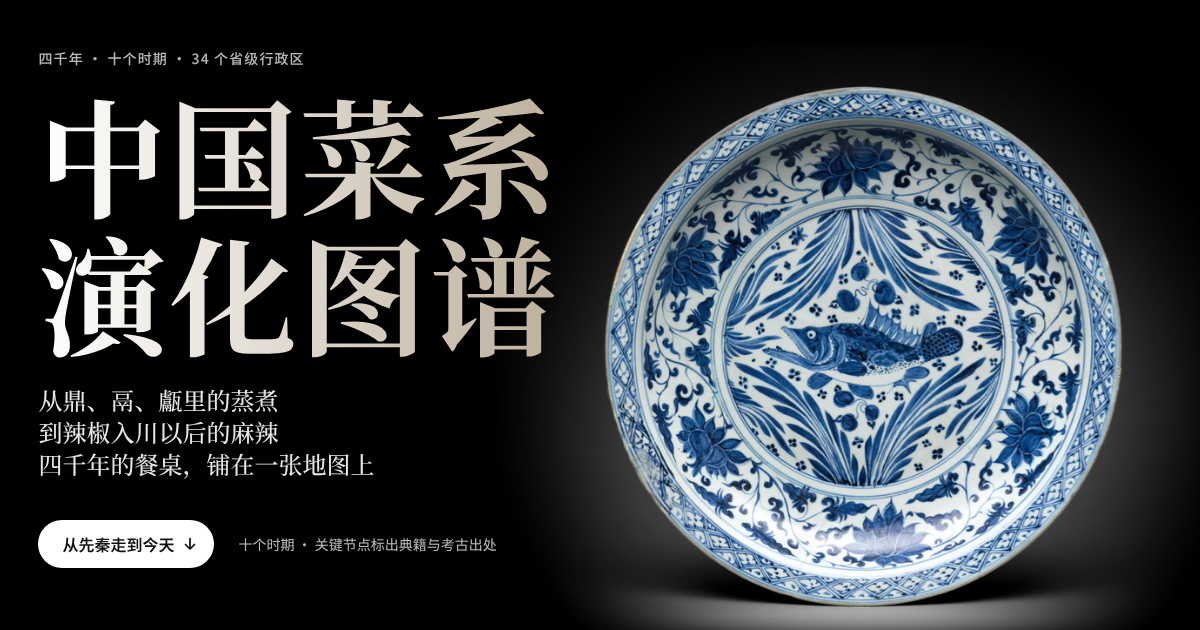
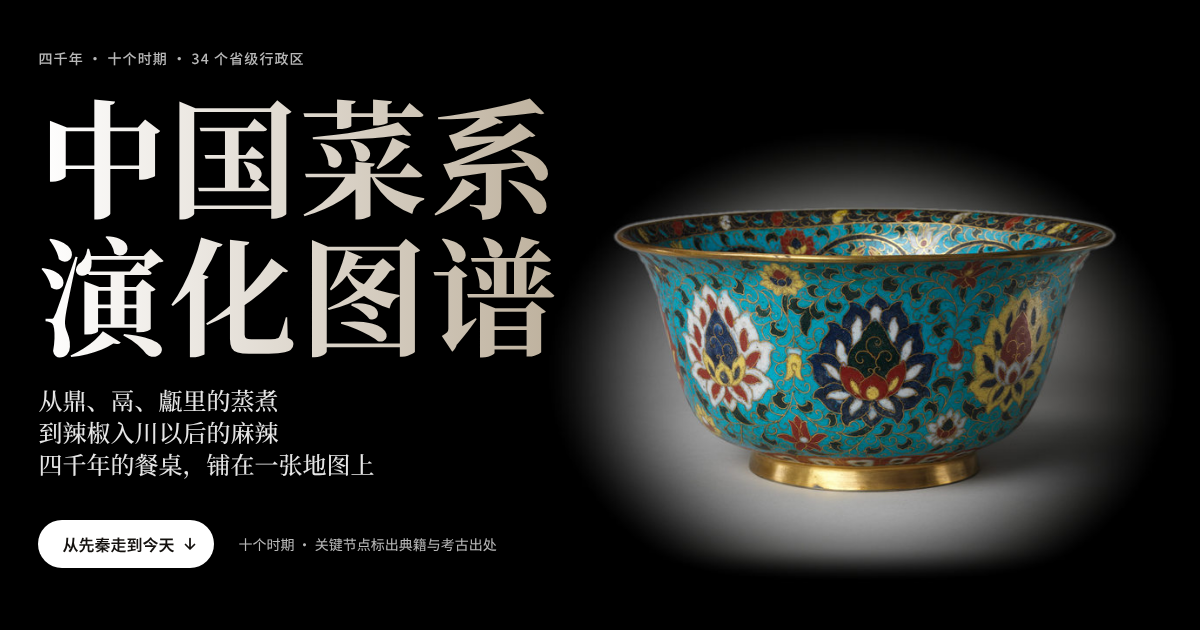
第 1 题 v2 首屏再换图：明代掐丝珐琅八吉祥纹大碗（大都会 29.110.88，公有领域）（预览，待「发」）
Claude-Session: https://claude.ai/code/session_01XSyXLS5qb3L6h9cqoC6WdC

diff --git a/themes/2026-09-21-cuisine-atlas/index.html b/themes/2026-09-21-cuisine-atlas/index.html
@@ -23,7 +23,7 @@
 <noscript><link rel="stylesheet" href="https://fonts.googleapis.com/css2?family=Noto+Serif+SC:wght@500;700;900&family=Noto+Sans+SC:wght@400;500;600;700&display=swap"></noscript>
 <style>
 /* 皮肤「宣纸与朱砂」v2（2026-10-30，按第 5–7 题 v2 的版面系统重排；9/27 天杰认可过这个方向）：
-   默认是纸——米色宣纸 #F4F0E6 为底，暖墨字，朱砂 #B5432C 是唯一强调色；卷首是纯黑的「灯下」带（展柜里的元青花大盘）。导航里可切「夜里读」。
+   默认是纸——米色宣纸 #F4F0E6 为底，暖墨字，朱砂 #B5432C 是唯一强调色；卷首是纯黑的「灯下」带（展柜里的掐丝珐琅大碗）。导航里可切「夜里读」。
    字号只取 12/14/16/18/20/24/30/36/48/60/96/128；间距只取 4/8/12/16/24/32/40/48/64/80/96；新写的部分字重 400–700；圆角 4/6/8/12/16/全圆。
    背景不用渐变（卷首标题字除外）。缓动统一 cubic-bezier(.22,1,.36,1)：位移 500 ms，颜色与透明度 300 ms，入场 700 ms。
    地图、时期面板、四维长卷与各地沿革在首屏阶段沿用 v1（atlas.css），只把令牌换成这一套。 */
@@ -69,7 +69,7 @@ a:focus-visible,button:focus-visible,[tabindex]:focus-visible{outline:2px solid 
 .fade{opacity:0;transform:translateY(32px);transition:opacity .7s var(--ease),transform .7s var(--ease)}
 .fade.in{opacity:1;transform:none}
 
-/* ---------- 卷首：大都会的元青花鱼藻纹大盘（放进纯黑画布、打聚光）——横屏盘在右侧 72%，平板与手机竖屏在下方；字压在黑底上，不加遮罩 */
+/* ---------- 卷首：大都会的明代掐丝珐琅大碗（放进纯黑画布、打聚光）——横屏碗在右侧 72%，平板与手机竖屏在下方；字压在黑底上，不加遮罩 */
 .h3{position:relative;min-height:max(calc(100dvh - 36px),630px);display:flex;flex-direction:column;justify-content:center;overflow:hidden;color:#fff;background:#000;isolation:isolate}
 .h3img{position:absolute;inset:0;margin:0;z-index:-1;background:#000}
 .h3img picture{display:block;width:100%;height:100%}
@@ -316,9 +316,9 @@ table.matrix{border-collapse:separate;border-spacing:0;min-width:1180px;width:10
   .sech{padding:64px 0 16px}.sech h2{font-size:36px;line-height:44px}.sech .slede{font-size:16px;line-height:28px}
   .tagsec.flow .tagstick{padding:64px 0}
 }
-@media (min-aspect-ratio:4/5) and (max-aspect-ratio:3/2){.h3img img{object-position:75% 50%;transform-origin:75% 52%}}
-@media (max-aspect-ratio:4/5){.h3img img{object-position:55% 100%;transform-origin:55% 90%}}
-@media (max-aspect-ratio:4/5) and (min-width:701px){.h3{justify-content:flex-start}.h3in{padding-top:80px}.h3img img{object-position:62% 100%;transform-origin:62% 90%}}
+@media (min-aspect-ratio:4/5) and (max-aspect-ratio:3/2){.h3img img{object-position:74% 50%;transform-origin:74% 52%}}
+@media (max-aspect-ratio:4/5){.h3img img{object-position:50% 100%;transform-origin:50% 90%}}
+@media (max-aspect-ratio:4/5) and (min-width:701px){.h3{justify-content:flex-start}.h3in{padding-top:80px}.h3img img{object-position:56% 100%;transform-origin:56% 90%}}
 @media (max-width:480px) and (max-height:760px){.h3in{padding-top:24px}.h3s{margin-top:16px}.h3a{margin-top:24px}}
 @media (max-width:480px){.h3{min-height:max(calc(100dvh - 60px),560px)}.h3t{font-size:48px}}
 @media (prefers-reduced-transparency:reduce){.cnav{background:var(--bg);-webkit-backdrop-filter:none;backdrop-filter:none}}
@@ -335,10 +335,10 @@ table.matrix{border-collapse:separate;border-spacing:0;min-width:1180px;width:10
 <body>
 <header class="h3" id="top">
   <figure class="h3img"><picture>
-    <source media="(max-aspect-ratio: 4/5) and (min-width: 701px)" srcset="assets/hero-met-1987-10-t1024.jpg 1024w, assets/hero-met-1987-10-t1536.jpg 1536w" sizes="100vw">
-    <source media="(max-aspect-ratio: 4/5)" srcset="assets/hero-met-1987-10-p960.jpg 960w, assets/hero-met-1987-10-p1440.jpg 1440w" sizes="(max-aspect-ratio: 9/16) 57vh, 100vw">
-    <source media="(max-aspect-ratio: 3/2)" srcset="assets/hero-met-1987-10-m1600.jpg 1600w, assets/hero-met-1987-10-m2400.jpg 2400w" sizes="(max-aspect-ratio: 4/3) calc(133vh - 48px), 100vw">
-    <img src="assets/hero-met-1987-10-2400.jpg" srcset="assets/hero-met-1987-10-1600.jpg 1600w, assets/hero-met-1987-10-2400.jpg 2400w, assets/hero-met-1987-10-3200.jpg 3200w" sizes="(max-aspect-ratio: 2/1) calc(200vh - 72px), 100vw" alt="元代青花鱼藻纹大盘：白地钴蓝，盘心一条鱼游在水草与浮萍之间，内壁一圈缠枝莲，口沿是菱格锦地纹，在黑底上打着聚光。" width="2400" height="1200" fetchpriority="high" decoding="async">
+    <source media="(max-aspect-ratio: 4/5) and (min-width: 701px)" srcset="assets/hero-met-40741-t1024.jpg 1024w, assets/hero-met-40741-t1536.jpg 1536w" sizes="100vw">
+    <source media="(max-aspect-ratio: 4/5)" srcset="assets/hero-met-40741-p960.jpg 960w, assets/hero-met-40741-p1440.jpg 1440w" sizes="(max-aspect-ratio: 9/16) 57vh, 100vw">
+    <source media="(max-aspect-ratio: 3/2)" srcset="assets/hero-met-40741-m1600.jpg 1600w, assets/hero-met-40741-m2400.jpg 2400w" sizes="(max-aspect-ratio: 4/3) calc(133vh - 48px), 100vw">
+    <img src="assets/hero-met-40741-2400.jpg" srcset="assets/hero-met-40741-1600.jpg 1600w, assets/hero-met-40741-2400.jpg 2400w, assets/hero-met-40741-3200.jpg 3200w" sizes="(max-aspect-ratio: 2/1) calc(200vh - 72px), 100vw" alt="明代掐丝珐琅大碗：松石蓝地上满布彩色莲花与缠枝，口沿与圈足鎏金，在黑底上打着聚光。" width="2400" height="1200" fetchpriority="high" decoding="async">
   </picture></figure>
   <div class="h3in wide">
     <p class="h3k rise">四千年 · 十个时期 · 34 个省级行政区</p>
@@ -346,7 +346,7 @@ table.matrix{border-collapse:separate;border-spacing:0;min-width:1180px;width:10
     <p class="h3s rise"><span>从鼎、鬲、甗里的蒸煮</span><span>到辣椒入川以后的麻辣</span><span>四千年的餐桌，铺在一张地图上</span></p>
     <div class="h3a rise"><a class="btn" href="#atlas">从先秦走到今天<svg viewBox="0 0 16 16" aria-hidden="true"><path d="M8 2.5v10M3.5 8.5 8 13l4.5-4.5"/></svg></a><span class="h3p">十个时期 · 关键节点标出典籍与考古出处</span></div>
   </div>
-  <p class="h3cap">青花鱼藻纹大盘，元代，景德镇窑，口径 45.7 厘米。大都会艺术博物馆藏，公有领域。</p>
+  <p class="h3cap">掐丝珐琅八吉祥纹大碗，明代，15 世纪末至 16 世纪初，口径 29.2 厘米。大都会艺术博物馆藏，公有领域。</p>
 </header>
 <nav class="cnav" id="cnav" aria-label="章节"><div class="row"><a href="#atlas" data-nav="atlas"><small>00</small>十个时期</a><a href="#scroll" data-nav="scroll"><small>01</small>四维长卷</a><a href="#regions" data-nav="regions"><small>02</small>各地沿革</a><a href="#refs" data-nav="refs"><small>末</small>参考</a><button type="button" class="ntheme" id="theme-btn" data-cover-hide aria-label="换成深色">夜里读</button><i class="prog" id="prog"></i></div></nav>
 <main>

diff --git a/themes/2026-09-21-cuisine-atlas/src/shell.html b/themes/2026-09-21-cuisine-atlas/src/shell.html
@@ -23,7 +23,7 @@
 <noscript><link rel="stylesheet" href="https://fonts.googleapis.com/css2?family=Noto+Serif+SC:wght@500;700;900&family=Noto+Sans+SC:wght@400;500;600;700&display=swap"></noscript>
 <style>
 /* 皮肤「宣纸与朱砂」v2（2026-10-30，按第 5–7 题 v2 的版面系统重排；9/27 天杰认可过这个方向）：
-   默认是纸——米色宣纸 #F4F0E6 为底，暖墨字，朱砂 #B5432C 是唯一强调色；卷首是纯黑的「灯下」带（展柜里的元青花大盘）。导航里可切「夜里读」。
+   默认是纸——米色宣纸 #F4F0E6 为底，暖墨字，朱砂 #B5432C 是唯一强调色；卷首是纯黑的「灯下」带（展柜里的掐丝珐琅大碗）。导航里可切「夜里读」。
    字号只取 12/14/16/18/20/24/30/36/48/60/96/128；间距只取 4/8/12/16/24/32/40/48/64/80/96；新写的部分字重 400–700；圆角 4/6/8/12/16/全圆。
    背景不用渐变（卷首标题字除外）。缓动统一 cubic-bezier(.22,1,.36,1)：位移 500 ms，颜色与透明度 300 ms，入场 700 ms。
    地图、时期面板、四维长卷与各地沿革在首屏阶段沿用 v1（atlas.css），只把令牌换成这一套。 */
@@ -69,7 +69,7 @@ a:focus-visible,button:focus-visible,[tabindex]:focus-visible{outline:2px solid 
 .fade{opacity:0;transform:translateY(32px);transition:opacity .7s var(--ease),transform .7s var(--ease)}
 .fade.in{opacity:1;transform:none}
 
-/* ---------- 卷首：大都会的元青花鱼藻纹大盘（放进纯黑画布、打聚光）——横屏盘在右侧 72%，平板与手机竖屏在下方；字压在黑底上，不加遮罩 */
+/* ---------- 卷首：大都会的明代掐丝珐琅大碗（放进纯黑画布、打聚光）——横屏碗在右侧 72%，平板与手机竖屏在下方；字压在黑底上，不加遮罩 */
 .h3{position:relative;min-height:max(calc(100dvh - 36px),630px);display:flex;flex-direction:column;justify-content:center;overflow:hidden;color:#fff;background:#000;isolation:isolate}
 .h3img{position:absolute;inset:0;margin:0;z-index:-1;background:#000}
 .h3img picture{display:block;width:100%;height:100%}
@@ -152,9 +152,9 @@ a:focus-visible,button:focus-visible,[tabindex]:focus-visible{outline:2px solid 
   .sech{padding:64px 0 16px}.sech h2{font-size:36px;line-height:44px}.sech .slede{font-size:16px;line-height:28px}
   .tagsec.flow .tagstick{padding:64px 0}
 }
-@media (min-aspect-ratio:4/5) and (max-aspect-ratio:3/2){.h3img img{object-position:75% 50%;transform-origin:75% 52%}}
-@media (max-aspect-ratio:4/5){.h3img img{object-position:55% 100%;transform-origin:55% 90%}}
-@media (max-aspect-ratio:4/5) and (min-width:701px){.h3{justify-content:flex-start}.h3in{padding-top:80px}.h3img img{object-position:62% 100%;transform-origin:62% 90%}}
+@media (min-aspect-ratio:4/5) and (max-aspect-ratio:3/2){.h3img img{object-position:74% 50%;transform-origin:74% 52%}}
+@media (max-aspect-ratio:4/5){.h3img img{object-position:50% 100%;transform-origin:50% 90%}}
+@media (max-aspect-ratio:4/5) and (min-width:701px){.h3{justify-content:flex-start}.h3in{padding-top:80px}.h3img img{object-position:56% 100%;transform-origin:56% 90%}}
 @media (max-width:480px) and (max-height:760px){.h3in{padding-top:24px}.h3s{margin-top:16px}.h3a{margin-top:24px}}
 @media (max-width:480px){.h3{min-height:max(calc(100dvh - 60px),560px)}.h3t{font-size:48px}}
 @media (prefers-reduced-transparency:reduce){.cnav{background:var(--bg);-webkit-backdrop-filter:none;backdrop-filter:none}}

diff --git a/themes/2026-09-21-cuisine-atlas/src/tools/compose_hero.py b/themes/2026-09-21-cuisine-atlas/src/tools/compose_hero.py
@@ -1,9 +1,9 @@
-"""卷首图（第二版）：大都会艺术博物馆 1987.10 元青花鱼藻纹大盘（口径 45.7 cm，公有领域）。原片 4000×3002、深灰到浅灰的渐变背景。
+"""卷首图（第三版）：大都会艺术博物馆 29.110.88（网页编号 40741）明代掐丝珐琅八吉祥纹大碗（口径 29.2 cm，公有领域）。原片 3919×2941、深灰到浅灰的渐变背景。
 做法：器物本身不动；背景用一个以器物为中心的椭圆光斑往外压暗成黑（像展柜里的聚光灯），再放进纯黑画布：横幅（桌面）与竖幅（手机）各一套。
-器物轮廓按饱和度取（盘沿一圈钴蓝锦地纹、背景与台面是中性灰），填洞后就是整只盘，只用来保护器物边缘不被压暗。
-（第一版用的是克利夫兰 1975.96 青铜甗，参数见 git 历史。）
-用法（仓库根目录）：python3 -I themes/2026-09-21-cuisine-atlas/src/tools/compose_hero.py <原片 DP-14609-052.jpg> themes/2026-09-21-cuisine-atlas/assets [预览目录]
-原片：https://images.metmuseum.org/CRDImages/as/original/DP-14609-052.jpg（4000×3002，公有领域，https://www.metmuseum.org/art/collection/search/39638）"""
+器物轮廓按饱和度取（珐琅的松石蓝、鎏金口足都是高饱和，背景与台面是中性灰），填洞后就是整只碗，只用来保护器物边缘不被压暗。
+（第一版克利夫兰 1975.96 青铜甗、第二版大都会 1987.10 元青花大盘，参数见 git 历史。）
+用法（仓库根目录）：python3 -I themes/2026-09-21-cuisine-atlas/src/tools/compose_hero.py <原片 DP228992.jpg> themes/2026-09-21-cuisine-atlas/assets [预览目录]
+原片：https://images.metmuseum.org/CRDImages/as/original/DP228992.jpg（3919×2941，公有领域，https://www.metmuseum.org/art/collection/search/40741）"""
 import sys, os
 import numpy as np
 from PIL import Image
@@ -30,10 +30,10 @@ protF = np.asarray(Image.fromarray((prot * 255).astype(np.uint8)).resize((W0, H0
 protF = ndi.gaussian_filter(protF, 6)
 
 w, h = X1 - X0, Y1 - Y0
-ecx, ecy = (X0 + X1) / 2, Y0 + 0.52 * h; rx, ry = 0.66 * w, 0.66 * h
+ecx, ecy = (X0 + X1) / 2, Y0 + 0.56 * h; rx, ry = 0.60 * w, 0.80 * h
 YY, XX = np.mgrid[0:H0, 0:W0].astype(np.float32)
 e = np.sqrt(((XX - ecx) / rx) ** 2 + ((YY - ecy) / ry) ** 2)
-a_ell = 1.0 - smooth((e - 0.50) / 0.72)
+a_ell = 1.0 - smooth((e - 0.50) / 0.62)
 alpha = np.maximum(a_ell, protF)
 edge = smooth(XX / 300.0) * smooth((W0 - 1 - XX) / 300.0) * smooth(YY / 160.0) * smooth((H0 - 1 - YY) / 220.0)
 alpha *= edge
@@ -48,19 +48,19 @@ def compose(CW, CH, tip, base, cx):
     canvas = Image.new('RGB', (CW, CH), (0, 0, 0)); canvas.paste(iso.resize((sw, sh), Image.LANCZOS), (ox, oy))
     return canvas, dict(scale=round(float(s), 4), ox=ox, oy=oy, sw=sw, sh=sh, subj_cx=round((ox + CX * s) / CW * 100, 1), subj_cy=round((oy + (TOP + BASE) / 2 * s) / CH * 100, 1))
 
-big, i1 = compose(3200, 1600, 0.13, 0.87, 0.72); print('landscape', i1)
-mid, i4 = compose(2400, 1800, 0.19, 0.81, 0.75); print('4:3', i4)                  # 4:3 / 5:4 桌面与横放平板：盘小一点、更靠右，免得压到标题
-por, i2 = compose(1440, 2560, 0.58, 0.90, 0.55); print("portrait", i2)        # 手机竖屏：盘在下方，底下留出图注的位置
-tab, i3 = compose(1536, 2048, 0.60, 0.93, 0.62); print("tablet", i3)          # 平板竖屏（3:4）：字在上，盘在下
+big, i1 = compose(3200, 1600, 0.30, 0.71, 0.72); print('landscape', i1)
+mid, i4 = compose(2400, 1800, 0.36, 0.66, 0.74); print('4:3', i4)                  # 4:3 / 5:4 桌面与横放平板：盘小一点、更靠右，免得压到标题
+por, i2 = compose(1440, 2560, 0.66, 0.88, 0.50); print("portrait", i2)        # 手机竖屏：碗在下方，底下留出图注的位置
+tab, i3 = compose(1536, 2048, 0.66, 0.90, 0.56); print("tablet", i3)          # 平板竖屏（3:4）：字在上，碗在下
 os.makedirs(OUT, exist_ok=True)
 def save(img, name, wd):
     if img.width != wd: img = img.resize((wd, round(img.height * wd / img.width)), Image.LANCZOS)
     p = os.path.join(OUT, name); img.save(p, 'JPEG', quality=84, optimize=True, progressive=True, subsampling=0)
     print(name, img.size, os.path.getsize(p) // 1024, 'KB')
-for wd in (3200, 2400, 1600): save(big, f'hero-met-1987-10-{wd}.jpg', wd)
-for wd in (2400, 1600): save(mid, f'hero-met-1987-10-m{wd}.jpg', wd)
-for wd in (1440, 960): save(por, f'hero-met-1987-10-p{wd}.jpg', wd)
-for wd in (1536, 1024): save(tab, f'hero-met-1987-10-t{wd}.jpg', wd)
+for wd in (3200, 2400, 1600): save(big, f'hero-met-40741-{wd}.jpg', wd)
+for wd in (2400, 1600): save(mid, f'hero-met-40741-m{wd}.jpg', wd)
+for wd in (1440, 960): save(por, f'hero-met-40741-p{wd}.jpg', wd)
+for wd in (1536, 1024): save(tab, f'hero-met-40741-t{wd}.jpg', wd)
 if PREV:
     os.makedirs(PREV, exist_ok=True)
     t = big.copy(); t.thumbnail((1600, 800)); t.save(os.path.join(PREV, 'land.jpg'), quality=85)

diff --git a/themes/2026-09-21-cuisine-atlas/src/editorial2.py b/themes/2026-09-21-cuisine-atlas/src/editorial2.py
@@ -15,9 +15,9 @@ HERO2 = dict(
     sub=['从鼎、鬲、甗里的蒸煮', '到辣椒入川以后的麻辣', '四千年的餐桌，铺在一张地图上'],
     cta='从先秦走到今天', cta_href='#atlas',
     proof='十个时期 · 关键节点标出典籍与考古出处',
-    img='hero-met-1987-10',
-    alt='元代青花鱼藻纹大盘：白地钴蓝，盘心一条鱼游在水草与浮萍之间，内壁一圈缠枝莲，口沿是菱格锦地纹，在黑底上打着聚光。',
-    cap='青花鱼藻纹大盘，元代，景德镇窑，口径 45.7 厘米。大都会艺术博物馆藏，公有领域。',
+    img='hero-met-40741',
+    alt='明代掐丝珐琅大碗：松石蓝地上满布彩色莲花与缠枝，口沿与圈足鎏金，在黑底上打着聚光。',
+    cap='掐丝珐琅八吉祥纹大碗，明代，15 世纪末至 16 世纪初，口径 29.2 厘米。大都会艺术博物馆藏，公有领域。',
 )
 
 # 逐词点亮；| 分词，/ 换行，词前加 * 的点亮后用朱砂色

diff --git a/themes/2026-09-21-cuisine-atlas/src/WORKLOG.md b/themes/2026-09-21-cuisine-atlas/src/WORKLOG.md
@@ -8,3 +8,4 @@
   - 结构：v1 的单文件模板拆成 `atlas.css` / `atlas.html` / `atlas.js`（内容不动，令牌改由新外壳 `shell.html` 提供；时间轴吸顶让到导航下面；时间轴不再用 scrollIntoView，避免载入时把页面拽到地图那里）；新外壳在 `shell.html` + `app.js`；`build_theme.py` 重写。
   - 重建：`python3 themes/2026-09-21-cuisine-atlas/src/build_theme.py && python3 tools/cover.py themes/2026-09-21-cuisine-atlas && python3 build.py`
 - 2026-10-30 卷首换图：天杰看完首屏说「首屏还是换成一张高清的经典中餐大菜餐桌吧」。按站点的图片规矩（公有领域 / CC0 / CC BY / CC BY-SA）找了一轮：维基共享资源对这里限流（429），Flickr 403，pxhere 只有家常长桌、点心笼和一张 2500 px 的家宴，Pexels / Unsplash / 图库站许可不合规，国会图书馆 Highsmith 也没有。问他之后他问「有没有高清的餐具图？」，于是换成大都会 1987.10 元青花鱼藻纹大盘（14 世纪中叶，景德镇窑，口径 45.7 cm，公有领域，原片 4000×3002）：盘心一条鱼，宴席上的「大菜」意思还在。构图与青铜甗同一套做法，另加一套 4:3（2400 / 1600）给 4:3、5:4 的桌面与横放平板（`<source media="(max-aspect-ratio: 3/2)">`），否则这些比例下盘会压到标题。青铜甗的图从仓库删掉（git 历史里有）。
+- 2026-10-30 卷首第三版：天杰说「找找亮色，配着筷子的，珐琅掐丝的」。大都会 Open Access 里掐丝珐琅配筷子的只有 24.80.323a–d 康熙珐琅刀筷套（刀、刀鞘与两根筷子），但馆方只有 532×925 的老黑白照，做不了卷首；克利夫兰、明尼阿波利斯（Mia）没有筷子类藏品。于是用大都会 29.110.88 明代掐丝珐琅八吉祥纹大碗（15 世纪末–16 世纪初，口径 29.2 cm，公有领域，原片 3919×2941）：松石蓝地、彩色莲花、鎏金口足，够亮。构图做法同前，椭圆光斑按碗的宽扁形状收窄；元青花大盘的图从仓库删掉（git 历史里有）。
